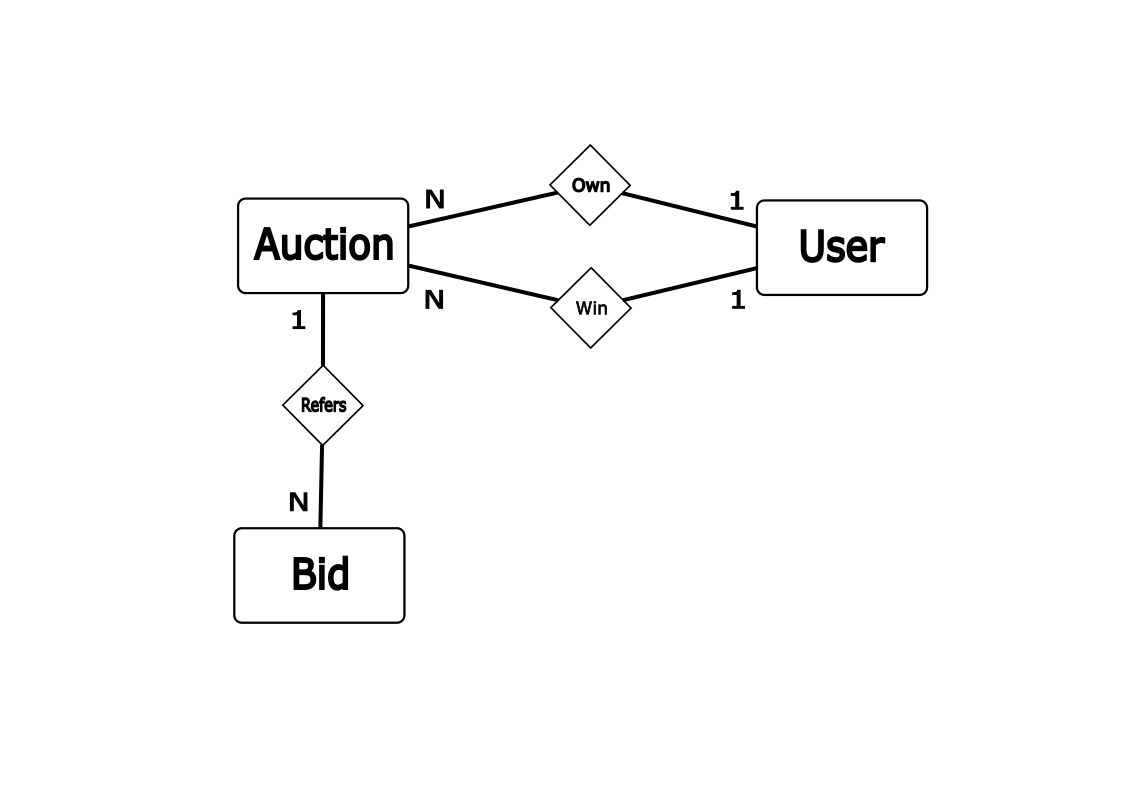
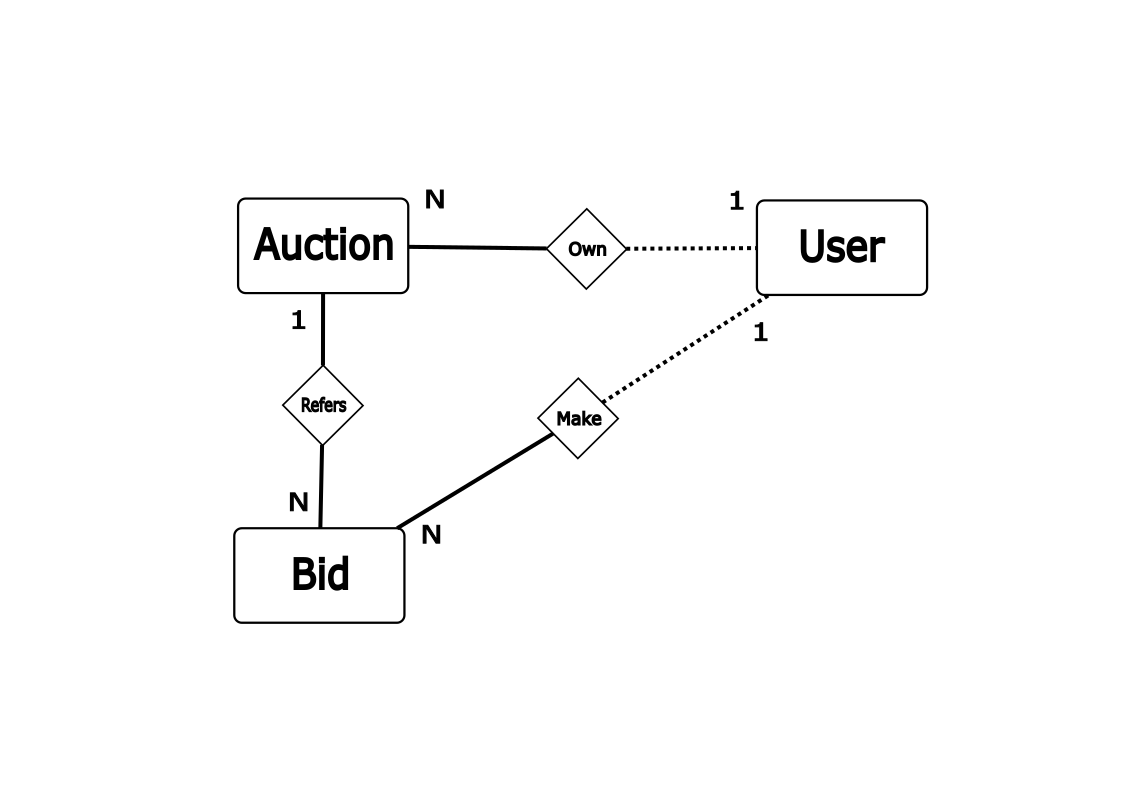
added Bid Entity

diff --git a/src/main/java/com/stefano/nextbid/entity/Bid.java b/src/main/java/com/stefano/nextbid/entity/Bid.java
@@ -1,0 +1,94 @@
+package com.stefano.nextbid.entity;
+
+import com.fasterxml.jackson.annotation.JsonManagedReference;
+import jakarta.persistence.*;
+import org.springframework.data.annotation.CreatedDate;
+import org.springframework.data.jpa.domain.support.AuditingEntityListener;
+
+import java.time.Instant;
+
+@Entity
+@EntityListeners(AuditingEntityListener.class)
+public class Bid {
+
+    @Id
+    @GeneratedValue(strategy = GenerationType.IDENTITY)
+    private Integer id;
+
+    @ManyToOne
+    @JoinColumn(name = "userId", nullable = false)
+    @JsonManagedReference
+    private User user;
+
+    @ManyToOne
+    @JoinColumn(name = "auctionId", nullable = false)
+    @JsonManagedReference
+    private Auction auction;
+
+    @Column(nullable = false)
+    private Double amount;
+
+    @CreatedDate
+    @Column(nullable = false, updatable = false)
+    private Instant createdAt;
+
+    @Version
+    private Integer version;
+
+    public Bid() {
+    }
+
+    public Bid(User user, Auction auction, Double amount) {
+        this.user = user;
+        this.auction = auction;
+        this.amount = amount;
+    }
+
+    public Integer getId() {
+        return id;
+    }
+
+    public void setId(Integer id) {
+        this.id = id;
+    }
+
+    public User getUser() {
+        return user;
+    }
+
+    public void setUser(User user) {
+        this.user = user;
+    }
+
+    public Auction getAuction() {
+        return auction;
+    }
+
+    public void setAuction(Auction auction) {
+        this.auction = auction;
+    }
+
+    public Double getAmount() {
+        return amount;
+    }
+
+    public void setAmount(Double amount) {
+        this.amount = amount;
+    }
+
+    public Instant getCreatedAt() {
+        return createdAt;
+    }
+
+    public void setCreatedAt(Instant createdAt) {
+        this.createdAt = createdAt;
+    }
+
+    public Integer getVersion() {
+        return version;
+    }
+
+    public void setVersion(Integer version) {
+        this.version = version;
+    }
+}

diff --git a/src/main/java/com/stefano/nextbid/entity/Auction.java b/src/main/java/com/stefano/nextbid/entity/Auction.java
@@ -1,11 +1,13 @@
 package com.stefano.nextbid.entity;
 
+import com.fasterxml.jackson.annotation.JsonBackReference;
 import com.fasterxml.jackson.annotation.JsonManagedReference;
 import jakarta.persistence.*;
 import org.springframework.data.annotation.CreatedDate;
 import org.springframework.data.jpa.domain.support.AuditingEntityListener;
 
 import java.time.Instant;
+import java.util.List;
 
 @Entity
 @EntityListeners(AuditingEntityListener.class)
@@ -31,6 +33,10 @@ public class Auction {
     @JoinColumn(name = "ownerId", nullable = false)
     @JsonManagedReference
     private User owner;
+
+    @OneToMany(mappedBy = "id", cascade = CascadeType.ALL)
+    @JsonBackReference
+    private List<Bid> bids;
 
     @CreatedDate
     @Column(nullable = false, updatable = false)
@@ -112,5 +118,13 @@ public class Auction {
 
     public void setId(Integer id) {
         this.id = id;
+    }
+
+    public List<Bid> getBids() {
+        return bids;
+    }
+
+    public void setBids(List<Bid> bids) {
+        this.bids = bids;
     }
 }

diff --git a/src/main/java/com/stefano/nextbid/entity/User.java b/src/main/java/com/stefano/nextbid/entity/User.java
@@ -31,9 +31,13 @@ public class User {
     @Column(nullable = false)
     private String password;
 
-    @OneToMany(mappedBy = "id")
+    @OneToMany(mappedBy = "id", cascade = CascadeType.ALL)
     @JsonBackReference
     private List<Auction> auctions;
+
+    @OneToMany(mappedBy = "id", cascade = CascadeType.ALL)
+    @JsonBackReference
+    private List<Bid> bids;
 
     @CreatedDate
     @Column(nullable = false, updatable = false)
@@ -130,5 +134,21 @@ public class User {
                 ", createdAt=" + createdAt +
                 ", version=" + version +
                 '}';
+    }
+
+    public List<Auction> getAuctions() {
+        return auctions;
+    }
+
+    public void setAuctions(List<Auction> auctions) {
+        this.auctions = auctions;
+    }
+
+    public List<Bid> getBids() {
+        return bids;
+    }
+
+    public void setBids(List<Bid> bids) {
+        this.bids = bids;
     }
 }

diff --git a/src/main/java/com/stefano/nextbid/repo/BidRepository.java b/src/main/java/com/stefano/nextbid/repo/BidRepository.java
@@ -1,0 +1,7 @@
+package com.stefano.nextbid.repo;
+
+import com.stefano.nextbid.entity.Bid;
+import org.springframework.data.jpa.repository.JpaRepository;
+
+public interface BidRepository extends JpaRepository<Bid, Integer> {
+}
